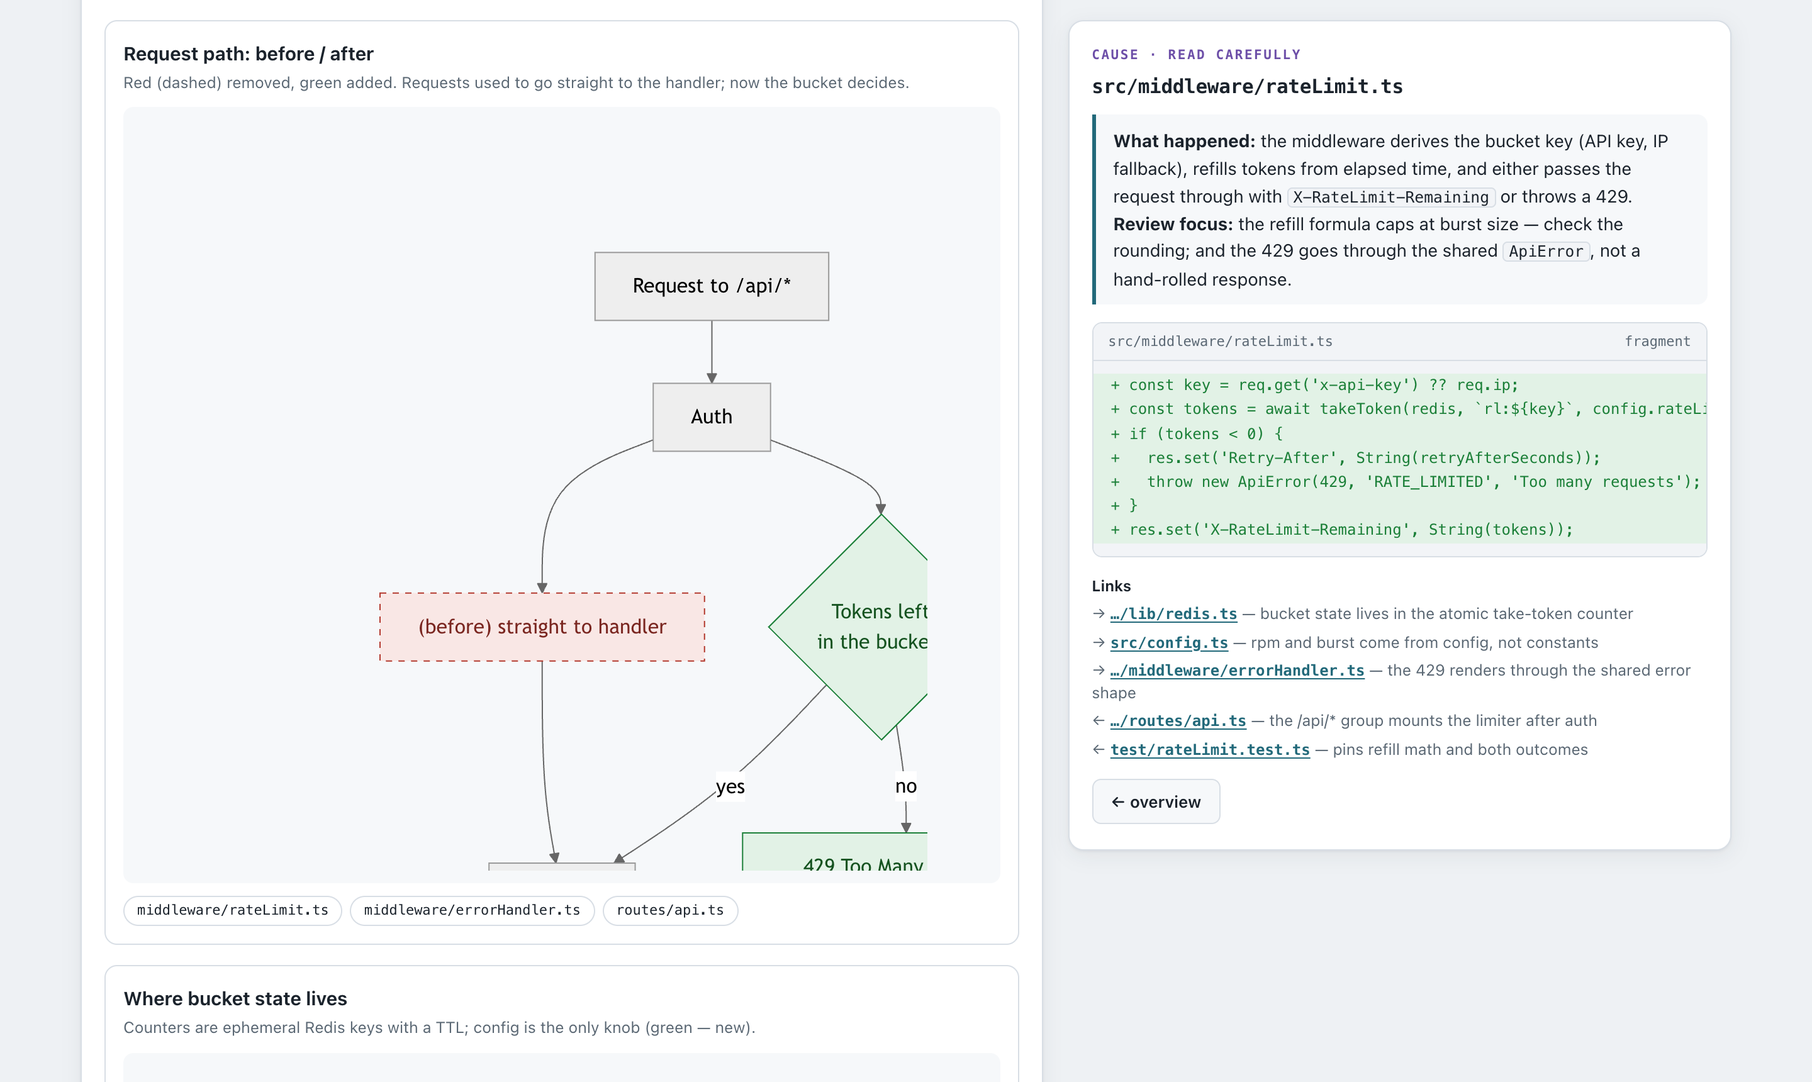
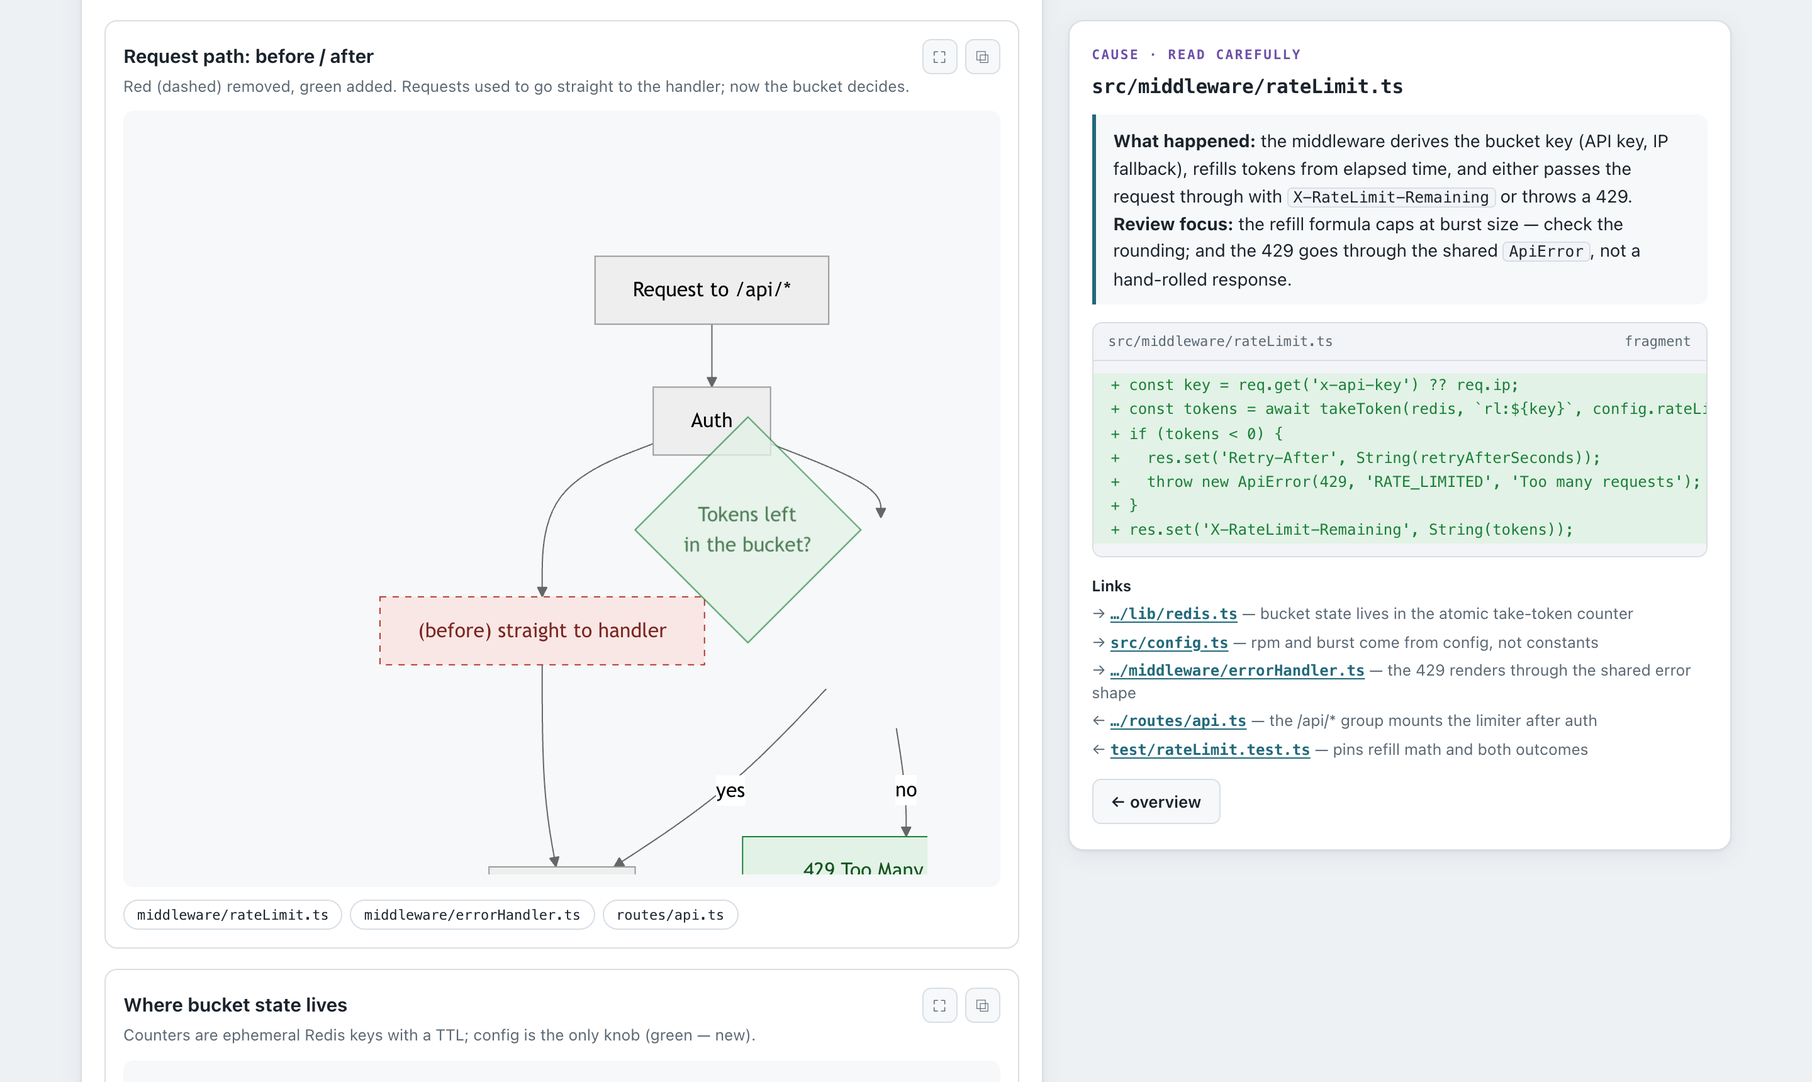
0.4.0: scope tags, language dots, diagram fullscreen/pop-out, permission hook
- Scope bar above the tabs: logical scope tags (backend/frontend/api/docs…)
  with counts; clicking one dims everything outside that scope on the Files
  tab. `service` is now required per file in the contract and the classifier
  must keep tags consistent across the diff.
- Language dots in GitHub-linguist colors, aggregated in the scope bar and
  shown per file card.
- Diagrams: fullscreen (⛶) and pop-out-to-new-window (⧉) buttons — big graphs
  are readable outside the column layout.
- hooks/hooks.json + scripts/approve.mjs: PreToolUse hook auto-approves only
  this pipeline's own calls (bundled scripts, read-only git, writes into
  .whydiff/, opening the map); chained or substituted commands never pass.
- Description sharpened across README/manifests/skill: follow the MEANING of a
  change — its architectural and logical decisions — without reading every
  file an LLM touched. README gains a "What the map answers" table.
- Smoke test covers the scope filter and the diagram pop-out window.

diff --git a/templates/viewer.html b/templates/viewer.html
@@ -72,7 +72,19 @@
   .sub { margin: 0; color: var(--muted); max-width: 74ch; }
   code { font-family: var(--mono); font-size: .88em; background: var(--code-bg); border: 1px solid var(--line); border-radius: 4px; padding: 0 4px; }
 
-  .statbar { display: flex; flex-wrap: wrap; gap: 10px; margin: 20px 0 22px; }
+  .statbar { display: flex; flex-wrap: wrap; gap: 10px; margin: 20px 0 12px; }
+  .scopebar { display: flex; flex-wrap: wrap; gap: 8px; align-items: center; margin: 0 0 22px; }
+  .scope-chip { font: inherit; font-size: 12.5px; font-weight: 600; cursor: pointer; border: 1px solid var(--line); border-radius: 99px; padding: 3px 12px; background: var(--surface); color: var(--ink); transition: border-color .12s, background .12s; }
+  .scope-chip .cnt { font-family: var(--mono); font-size: 11px; color: var(--muted); margin-left: 4px; }
+  .scope-chip:hover { border-color: var(--accent); }
+  .scope-chip:focus-visible { outline: 2px solid var(--accent); outline-offset: 1px; }
+  .scope-chip.active { background: var(--accent); color: var(--accent-ink); border-color: var(--accent); }
+  .scope-chip.active .cnt { color: var(--accent-ink); opacity: .8; }
+  .scope-sep { width: 1px; height: 18px; background: var(--line); margin: 0 2px; }
+  .lang-chip { display: inline-flex; align-items: center; gap: 6px; font-family: var(--mono); font-size: 11px; color: var(--muted); border: 1px dashed var(--line); border-radius: 99px; padding: 2.5px 10px; }
+  .ldot { display: inline-block; width: 8px; height: 8px; border-radius: 99px; flex: none; }
+  .node .ldot { width: 7px; height: 7px; margin-right: 6px; position: relative; top: -0.5px; }
+  .node.dim { opacity: .3; }
   .stat { background: var(--surface); border: 1px solid var(--line); border-radius: 8px; padding: 10px 16px; box-shadow: var(--shadow); min-width: 118px; }
   .stat b { display: block; font-size: 20px; font-weight: 650; font-variant-numeric: tabular-nums; letter-spacing: -.01em; }
   .stat span { font-size: 12.5px; color: var(--muted); }
@@ -125,6 +137,14 @@
   /* diagrams */
   .diagram { border: 1px solid var(--line); border-radius: 10px; padding: 14px; margin: 0 0 16px; background: var(--surface); }
   .diagram h3 { margin: 0 0 2px; font-size: 15px; font-weight: 650; }
+  .dg-head { display: flex; align-items: baseline; gap: 10px; }
+  .dg-head h3 { flex: 1; min-width: 0; }
+  .dg-actions { display: flex; gap: 6px; flex: none; }
+  .dg-btn { width: 28px; height: 28px; border-radius: 7px; border: 1px solid var(--line); background: var(--surface-2); color: var(--muted); font-size: 14px; line-height: 1; cursor: pointer; transition: border-color .12s, color .12s; }
+  .dg-btn:hover { border-color: var(--accent); color: var(--accent); }
+  .dg-btn:focus-visible { outline: 2px solid var(--accent); outline-offset: 1px; }
+  .mermaid-box:fullscreen { background: var(--bg); display: grid; place-items: center; overflow: auto; padding: 24px; }
+  .mermaid-box:fullscreen svg { max-width: 96vw !important; width: 96vw; height: auto; }
   .diagram .cap { margin: 0 0 10px; font-size: 12.5px; color: var(--muted); }
   .diagram .mermaid-box { overflow-x: auto; background: var(--surface-2); border-radius: 8px; padding: 10px; }
   pre.mermaid { margin: 0; text-align: center; }
@@ -262,6 +282,7 @@
   <h1 id="title"></h1>
   <p class="sub" id="intent"></p>
   <div class="statbar" id="statbar"></div>
+  <div class="scopebar" id="scopebar"></div>
   <div class="consistency" id="consistency"></div>
 
   <div class="layout">
@@ -364,6 +385,8 @@ const I18N = {
     overviewTag: 'Overview', overviewTitle: 'How to read this map',
     overviewBody: 'The <b>Logic</b> tab reads top to bottom: each block exists <i>because of</i> the previous one. Click any file on any tab — details and code appear in the inspector. Groups are reviewer roles:',
     helpLink: 'how to read this map',
+    scopeTitle: (s) => `Highlight only "${s}" files on the Files tab`,
+    dgFullscreen: 'Fullscreen (Esc to exit)', dgNewWindow: 'Open in a new window',
     completeness: (n) => `Completeness: ${n} of ${n} diff files described (Files tab).`,
     roles: { read: 'read carefully', 'verify-pattern': 'verify one pattern and list completeness', context: 'context, read first', ops: 'deploy checklist', spec: 'specification on demand', plumbing: 'mechanics' },
   },
@@ -391,6 +414,8 @@ const I18N = {
     overviewTag: 'Обзор', overviewTitle: 'Как читать эту карту',
     overviewBody: 'Вкладка <b>«Логика»</b> читается сверху вниз: каждый блок существует <i>из-за</i> предыдущего. Клик по файлу в любой вкладке — детали и код в инспекторе. Группы — это роли:',
     helpLink: 'как читать карту',
+    scopeTitle: (s) => `Подсветить только файлы «${s}» на вкладке «Файлы»`,
+    dgFullscreen: 'На весь экран (Esc — выход)', dgNewWindow: 'Открыть в новом окне',
     completeness: (n) => `Полнота: ${n} из ${n} файлов диффа описаны (вкладка «Файлы»).`,
     roles: { read: 'читать внимательно', 'verify-pattern': 'проверить паттерн и полноту', context: 'контекст, читать первым', ops: 'чеклист деплоя', spec: 'спецификация по запросу', plumbing: 'механика' },
   },
@@ -422,6 +447,56 @@ document.getElementById('statbar').innerHTML = [
   [st.attentionFiles ?? '—', L.statAttention, true],
   [(RM.ops?.env || []).length, L.statEnv],
 ].map(([v, l, hl]) => `<div class="stat${hl ? ' hl' : ''}"><b>${v}</b><span>${l}</span></div>`).join('')
+
+// ── scopes & languages: which parts of the project the change touches ────────
+// Language colors follow GitHub linguist; label falls back to the extension.
+const LANG_COLORS = {
+  ts: ['TS', '#3178c6'], tsx: ['TSX', '#3178c6'], js: ['JS', '#f1e05a'], jsx: ['JSX', '#f1e05a'],
+  mjs: ['JS', '#f1e05a'], cjs: ['JS', '#f1e05a'], php: ['PHP', '#4F5D95'], py: ['PY', '#3572A5'],
+  rb: ['RB', '#701516'], go: ['GO', '#00ADD8'], rs: ['RS', '#dea584'], java: ['JAVA', '#b07219'],
+  kt: ['KT', '#A97BFF'], swift: ['SWIFT', '#F05138'], cs: ['C#', '#178600'], cpp: ['C++', '#f34b7d'],
+  c: ['C', '#555555'], sql: ['SQL', '#e38c00'], prisma: ['PRISMA', '#5a67d8'], md: ['MD', '#4a80c9'],
+  yml: ['YML', '#cb171e'], yaml: ['YML', '#cb171e'], json: ['JSON', '#8a919a'], html: ['HTML', '#e34c26'],
+  css: ['CSS', '#563d7c'], scss: ['SCSS', '#c6538c'], sh: ['SH', '#89e051'], vue: ['VUE', '#41b883'],
+  svelte: ['SVELTE', '#ff3e00'], tf: ['TF', '#844FBA'], twig: ['TWIG', '#c1d026'], env: ['ENV', '#8a919a'],
+}
+function langOf(path) {
+  const base = path.split('/').pop().toLowerCase()
+  if (base === 'dockerfile') return ['DOCKER', '#384d54']
+  if (base === 'makefile') return ['MAKE', '#427819']
+  const ext = base.includes('.') ? base.split('.').pop() : ''
+  return LANG_COLORS[ext] || (ext ? [ext.toUpperCase().slice(0, 6), '#8a919a'] : null)
+}
+let scopeFilter = null
+{
+  const services = new Map(), langs = new Map()
+  for (const [p, f] of Object.entries(RM.files)) {
+    if (f.service) services.set(f.service, (services.get(f.service) || 0) + 1)
+    const l = langOf(p)
+    if (l) { const e = langs.get(l[0]) || { n: 0, color: l[1] }; e.n++; langs.set(l[0], e) }
+  }
+  const bar = document.getElementById('scopebar')
+  for (const [svc, n] of [...services].sort((a, b) => b[1] - a[1])) {
+    const b = document.createElement('button')
+    b.className = 'scope-chip'
+    b.innerHTML = `${esc(svc)}<span class="cnt">×${n}</span>`
+    b.title = L.scopeTitle(svc)
+    b.addEventListener('click', () => {
+      scopeFilter = scopeFilter === svc ? null : svc
+      setTab('files')
+      for (const c of bar.querySelectorAll('.scope-chip')) c.classList.toggle('active', c === b && scopeFilter !== null)
+      for (const [path, el] of Object.entries(nodeEls)) el.classList.toggle('dim', !!scopeFilter && RM.files[path]?.service !== scopeFilter)
+    })
+    bar.appendChild(b)
+  }
+  if (services.size && langs.size) { const s = document.createElement('span'); s.className = 'scope-sep'; bar.appendChild(s) }
+  for (const [label, e] of [...langs].sort((a, b) => b[1].n - a[1].n)) {
+    const span = document.createElement('span')
+    span.className = 'lang-chip'
+    span.innerHTML = `<span class="ldot" style="background:${e.color}"></span>${esc(label)}${e.n > 1 ? ` ×${e.n}` : ''}`
+    bar.appendChild(span)
+  }
+}
 
 // ── integrity: every manifest entry must be described (principle 5) ──────────
 {
@@ -585,7 +660,8 @@ for (const g of RM.groups) {
     if (!f) continue
     const el = document.createElement('button')
     el.className = 'node'
-    el.innerHTML = `<span class="node-top"><span class="fname">${esc(shortName(path))}</span>
+    const lang = langOf(path)
+    el.innerHTML = `<span class="node-top">${lang ? `<span class="ldot" style="background:${lang[1]}" title="${esc(lang[0])}"></span>` : ''}<span class="fname">${esc(shortName(path))}</span>
       <span class="fstat"><span class="a">+${f.add}</span> <span class="d">−${f.del}</span></span></span>
       <span class="node-meta">${f.service ? `<span class="svc">${esc(f.service)}</span>` : ''}<span class="frole">${esc(f.role || '')}</span></span>
       ${previewHTML(f)}`
@@ -749,8 +825,31 @@ document.addEventListener('click', (e) => {
     if (g) { helpModal.close(); showGroup(g) }
     return
   }
-  if (e.target.closest('[data-help]')) helpModal.showModal()
+  if (e.target.closest('[data-help]')) return helpModal.showModal()
+  const fs = e.target.closest('[data-fs]')
+  if (fs) return fs.closest('.diagram')?.querySelector('.mermaid-box')?.requestFullscreen?.()
+  const pop = e.target.closest('[data-pop]')
+  if (pop) openDiagramWindow(pop.closest('.diagram'))
 })
+
+// A rendered diagram, alone in its own window — no mermaid needed, the SVG is
+// already there; big graphs get the whole viewport instead of a column.
+function openDiagramWindow(diagEl) {
+  const svg = diagEl?.querySelector('svg')
+  if (!svg) return
+  const title = diagEl.querySelector('h3')?.textContent || 'diagram'
+  const dark = document.documentElement.dataset.theme === 'dark'
+    || (!document.documentElement.dataset.theme && matchMedia('(prefers-color-scheme: dark)').matches)
+  const w = window.open('', '_blank')
+  if (!w) return
+  w.document.write(`<!doctype html><title>${esc(title)}</title><style>
+    body { margin: 0; min-height: 100vh; display: grid; place-items: center; background: ${dark ? '#12161b' : '#f6f8fa'}; }
+    svg { width: 96vw; height: auto; max-width: none !important; }
+  </style>${svg.outerHTML}`)
+  w.document.close()
+}
+for (const b of document.querySelectorAll('[data-fs]')) b.title = L.dgFullscreen
+for (const b of document.querySelectorAll('[data-pop]')) b.title = L.dgNewWindow
 // Mermaid binds `click <id> call whydiffOpen("<path>")` to this global.
 window.whydiffOpen = gotoFile
 

diff --git a/README.md b/README.md
@@ -3,13 +3,22 @@
 [![validate](https://github.com/smagew/whydiff/actions/workflows/validate.yml/badge.svg)](https://github.com/smagew/whydiff/actions/workflows/validate.yml)
 [![license: MIT](https://img.shields.io/badge/license-MIT-blue.svg)](LICENSE)
 
-A Claude Code plugin that turns a git diff into an interactive **review map**:
-changes grouped by cause (not by file), a causal story of *why* each change
-exists, diff-marked mermaid diagrams, standards/tests/ops reports, and a blast
-radius — all with drill-down to code fragments and full files.
+**Follow the meaning of a change — the architectural and logical decisions
+behind it — instead of reading thousands of diff lines to reconstruct them.**
 
-Built for reviewing LLM-written code without losing comprehension of the project
-(see `PLAN.md` for the problem statement and design principles).
+whydiff is a Claude Code plugin that turns any git diff into an interactive
+**review map**: a causal story of *why* each change exists, changes grouped by
+cause instead of by file, diagrams of the flows and data shapes that actually
+changed, plus standards / tests / ops reports and a blast radius — every claim
+one click away from the code it came from.
+
+An LLM writes code faster than anyone can read it. Reviewing every file line by
+line burns the speed you just gained ("comprehension debt"); skipping the review
+costs you your mental model of the project. whydiff is the third option: read
+the decisions, open the code only where it matters, and let a script — not the
+model — prove that no file went unexplained.
+
+See `PLAN.md` for the problem statement and the design principles.
 
 ![The Logic tab: a causal story of the change, every block linked by why](assets/story.png)
 
@@ -49,6 +58,17 @@ The mermaid bundle for the assembler is installed automatically on first
 Plugin skills are namespaced: invoke as `/whydiff:whydiff` (the bare
 `/whydiff` form also resolves when unambiguous).
 
+### Permissions
+
+The plugin ships a `PreToolUse` hook that auto-approves **only** the
+pipeline's own operations, so a `/whydiff` run doesn't ask a dozen times:
+its bundled scripts (`manifest/validate/assemble/timing.mjs`), read-only git
+(`diff`/`log`/`show`/`ls-files`/`status`), writes into `.whydiff/`, and
+opening the built map. Commands with chaining or substitution
+(`;`, `&`, `|`, `` ` ``, `$(`) are never auto-approved, and everything else
+goes through the normal permission flow (see `scripts/approve.mjs` — it is
+deliberately short and reviewable).
+
 Local development (changes picked up without reinstalling):
 
 ```bash
@@ -75,15 +95,31 @@ agents/                      # parallel analysis passes
   diagrammer.md              #   diff-marked mermaid diagrams
   standards-reviewer.md      #   project-convention findings + blast radius
   tests-analyst.md           #   fixed behaviors + gap analysis
+hooks/hooks.json             # PreToolUse hook wiring (see Permissions)
 scripts/
   manifest.mjs               # deterministic diff manifest from git
   validate.mjs               # structure + manifest-vs-git cross-check
   assemble.mjs               # review-map.json + viewer template → HTML
+  timing.mjs                 # per-run timing log + timing-report.md
+  approve.mjs                # auto-approves only this pipeline's own calls
   lib.mjs                    # shared validation/git helpers
 templates/viewer.html        # the generic viewer (i18n, mermaid, 6 tabs)
 schema/review-map.schema.json# the generator↔viewer contract
 examples/rate-limit/         # hand-authored reference sample (synthetic project)
+tests/smoke.mjs              # assemble + headless-browser check of the viewer
 ```
+
+## What the map answers
+
+| Question | Where it lands |
+|---|---|
+| What decisions were made, and why this one led to the next? | **Logic** — causal story, each block linked by a *why* |
+| Which flows / data shapes actually changed? | **Diagrams** — one diff-marked graph per changed flow; `er-diff` for schema migrations |
+| Which parts of the project are touched? | Scope tags + language dots above the tabs |
+| Does it follow this project's conventions? | **Standards** — findings with the convention they deviate from |
+| What is now guaranteed, and what is still uncovered? | **Tests** — fixed behaviors vs gap analysis |
+| What do I do at deploy time? | **Ops & risks** — env/migrations/deploy + blast radius |
+| Was anything left unexplained? | **Files** — N of N manifest, proven by `validate.mjs` |
 
 ## Pipeline (what /whydiff does)
 

diff --git a/skills/whydiff/SKILL.md b/skills/whydiff/SKILL.md
@@ -1,13 +1,17 @@
 ---
 name: whydiff
-description: Generate an interactive review map for a git diff — cause-grouped changes, a causal story, diff-marked mermaid diagrams, standards/tests/ops reports, all with drill-down to code. Use when the user asks to build a change map, review a diff/PR visually, or understand what recent changes do and why.
+description: Generate an interactive review map for a git diff so the reviewer can follow the MEANING of a change — its architectural and logical decisions — without reading every file an LLM touched: causal story, cause-grouped changes, diff-marked flow and schema diagrams, standards/tests/ops reports, blast radius, all with drill-down to code. Use when the user asks to build a change map, review a diff/PR visually, or understand what recent changes do and why.
 ---
 
 # whydiff: generate a review map for a diff
 
 You are building a `review-map.json` (contract: `${CLAUDE_PLUGIN_ROOT}/schema/review-map.schema.json`)
-and rendering it to a self-contained HTML page. The map exists to make reviewing
-LLM-written code faster than reading the raw diff: structure first, text lazily.
+and rendering it to a self-contained HTML page.
+
+**What the map is for.** The reviewer must be able to follow the *meaning* of the
+change — which architectural and logical decisions were made, and why — without
+reading every file the LLM touched. So: decisions and causal structure first,
+code lazily behind a click; every claim traceable to a real line of the diff.
 
 ## Inputs
 
@@ -36,7 +40,7 @@ without the user's go-ahead).
 node ${CLAUDE_PLUGIN_ROOT}/scripts/timing.mjs log run_start --repo <repo> --meta ref="<spec or working-tree>"
 node ${CLAUDE_PLUGIN_ROOT}/scripts/manifest.mjs --repo <repo> [--ref <spec>] > <repo>/.whydiff/manifest.json
 git -C <repo> diff [<spec>] > <repo>/.whydiff/diff.patch
-node ${CLAUDE_PLUGIN_ROOT}/scripts/timing.mjs log deterministic_done --repo <repo> --meta diff_lines=$(wc -l < <repo>/.whydiff/diff.patch)
+node ${CLAUDE_PLUGIN_ROOT}/scripts/timing.mjs log deterministic_done --repo <repo>
 ```
 
 Every pipeline run is timed via `timing.mjs` (events land in

diff --git a/CHANGELOG.md b/CHANGELOG.md
@@ -4,6 +4,33 @@ Notable changes to the whydiff plugin. Versions follow semver; the plugin
 version in `.claude-plugin/plugin.json` must be bumped for installed users
 to receive an update.
 
+## [0.4.0] — 2026-08-05
+
+### Added
+- **Scope bar**: logical scope tags (`backend`, `frontend`, `api`, `docs`, …)
+  with file counts above the tabs — one glance shows which parts of the
+  project a change touches. Clicking a tag jumps to the Files tab and dims
+  everything outside that scope. `service` is now required for every file in
+  the contract, and the classifier must keep the tags consistent.
+- **Language indicators**: language dots/badges in GitHub-linguist colors,
+  aggregated in the scope bar and per file card (TS, JS, PHP, PY, SQL, …).
+- **Diagram viewing**: every diagram gets a fullscreen button (`⛶`, uses the
+  whole viewport) and a pop-out button (`⧉`, opens the rendered SVG alone in a
+  new window) — large graphs are readable without squinting at a column.
+- **Permission hook** (`hooks/hooks.json` + `scripts/approve.mjs`): a
+  `PreToolUse` hook auto-approves only the pipeline's own operations — bundled
+  scripts, read-only git, writes into `.whydiff/`, opening the built map — so a
+  run no longer needs a dozen confirmations. Chained/substituted commands
+  (`;`, `&`, `|`, backticks, `$(`) are never auto-approved; everything else
+  falls through to the normal permission flow.
+
+### Changed
+- Project description sharpened everywhere (README, manifests, skill): whydiff
+  is for following the *meaning* of a change — its architectural and logical
+  decisions — without reading every file an LLM touched.
+- README: added a "What the map answers" table mapping reviewer questions to
+  tabs.
+
 ## [0.3.0] — 2026-08-04
 
 ### Added

diff --git a/agents/classifier.md b/agents/classifier.md
@@ -42,6 +42,11 @@ Return ONLY a JSON object (no prose, no code fences) with these keys:
   one group.
 - `files`: object keyed by repo-relative path, each
   `{ "service", "role", "add", "del", "isNew"?, "why", "frag": [[cls, text]...], "preview": [[cls, text]...] }`.
+  `service` is REQUIRED for every file: the logical scope tag the viewer surfaces
+  in its scope bar — `frontend`, `backend`, `api`, `mcp`, `devops`, `infra`,
+  `docs`, `test`, … Lowercase, short, and consistent: the same part of the
+  project must get the same tag on every file (derive from the repo's real
+  top-level structure, not ad hoc).
   `add`/`del` copied from the manifest. `why`: what happened and why, flag review
   focus points with `<b>Review focus:</b>` (translated to REPORT_LANGUAGE).
   `frag`: 4–12 real lines from the diff, cls one of `add`/`del`/`ctx`. `preview`:
